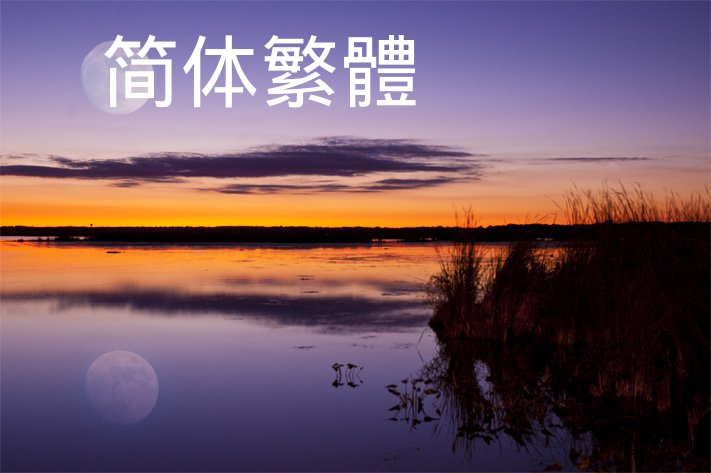
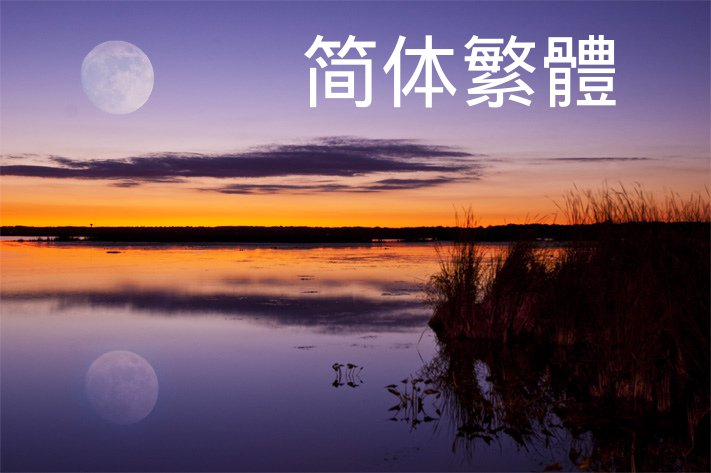
Update gd imagettftext example 1

Changed region(s): [[0.1547, 0.0592, 0.8664, 0.2368]]

diff --git a/examples/gd-imagettftext.html b/examples/gd-imagettftext.html
@@ -21,7 +21,7 @@ $w = imagesx($im);
 $h = imagesy($im);
 
 // place some text (top, left)
-imagettftext($im, 60, 0, 100, 100, 0xFFFFFF, 'wqy-microhei.ttc', '简体繁體');
+imagettftext($im, 60, 0, 300, 100, 0xFFFFFF, 'wqy-microhei.ttc', '简体繁體');
 
 imageJpeg($im, "001.jpg", 85);
 imagedestroy($im);

diff --git a/_static/examples/gd-imagettftext/test.php b/_static/examples/gd-imagettftext/test.php
@@ -12,11 +12,11 @@ $h = imagesy($im);
 //$text = imagecreatetruecolor($w, $h);
 //imagealphablending($text, true);
 
-// 001
-//place some text (top, left)
+// place some text (top, left)
+// array imagettftext ( resource $image , float $size , float $angle , int $x , int $y , int $color , string $fontfile , string $text )
+imagettftext($im, 60, 0, 300, 100, 0xFFFFFF, 'wqy-microhei.ttc', '简体繁體'); // 001
 //imagettftext($im, 60, 0, 100, 100, 0xFFFFFF, 'wqy-microhei.ttc', '简体繁體');
-//imagettftext($im, 60, 0, 100, 100, 0xFFFFFF, 'wqy-microhei.ttc', '简体繁體');
-imagefttext($im, 60, 30, 100, 100, 0xFFFFFF, 'wqy-microhei.ttc', '简体繁體', ['linespacing' => 100]);
+//imagefttext($im, 60, 30, 100, 100, 0xFFFFFF, 'wqy-microhei.ttc', '简体繁體', ['linespacing' => 100]);
 
 // merge the two canvas
 //set opacity to 50%
@@ -30,7 +30,7 @@ imagedestroy ($text);
 imagedestroy($im);
 */
 
-imageJpeg($im, "003.jpg", 85);
+imageJpeg($im, "001.jpg", 85);
 echo "done";
 
 ?>
